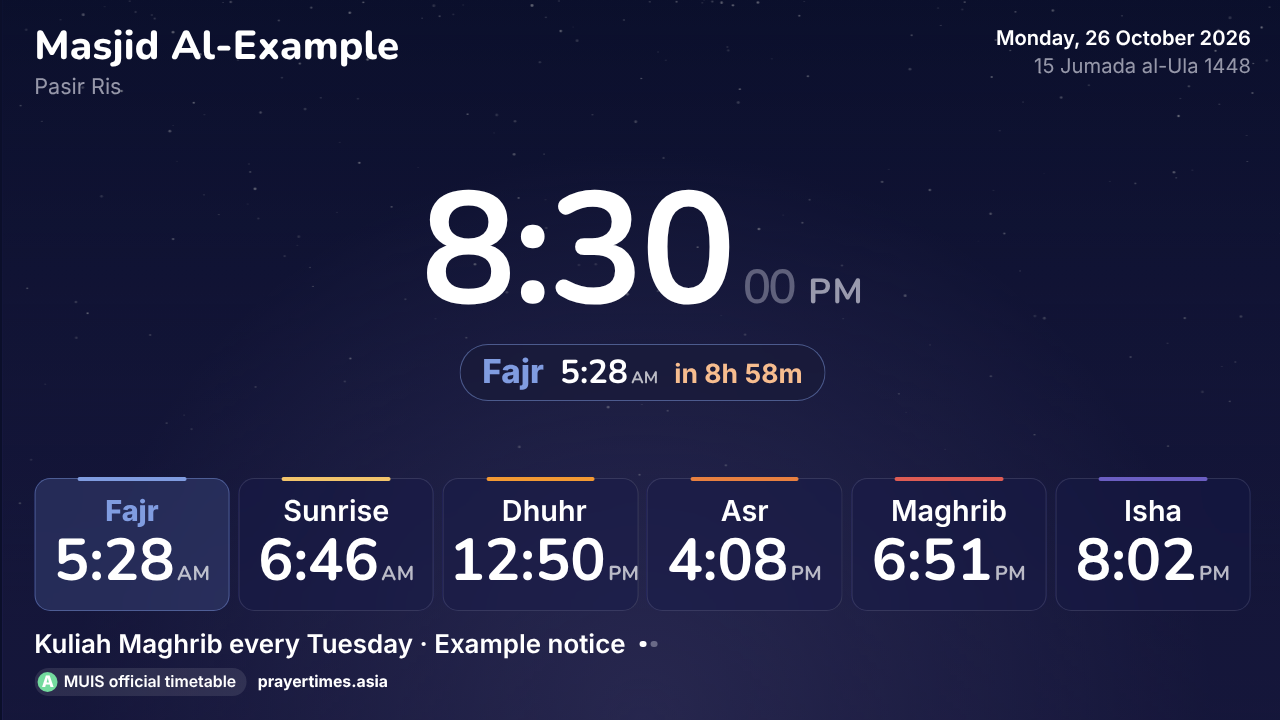
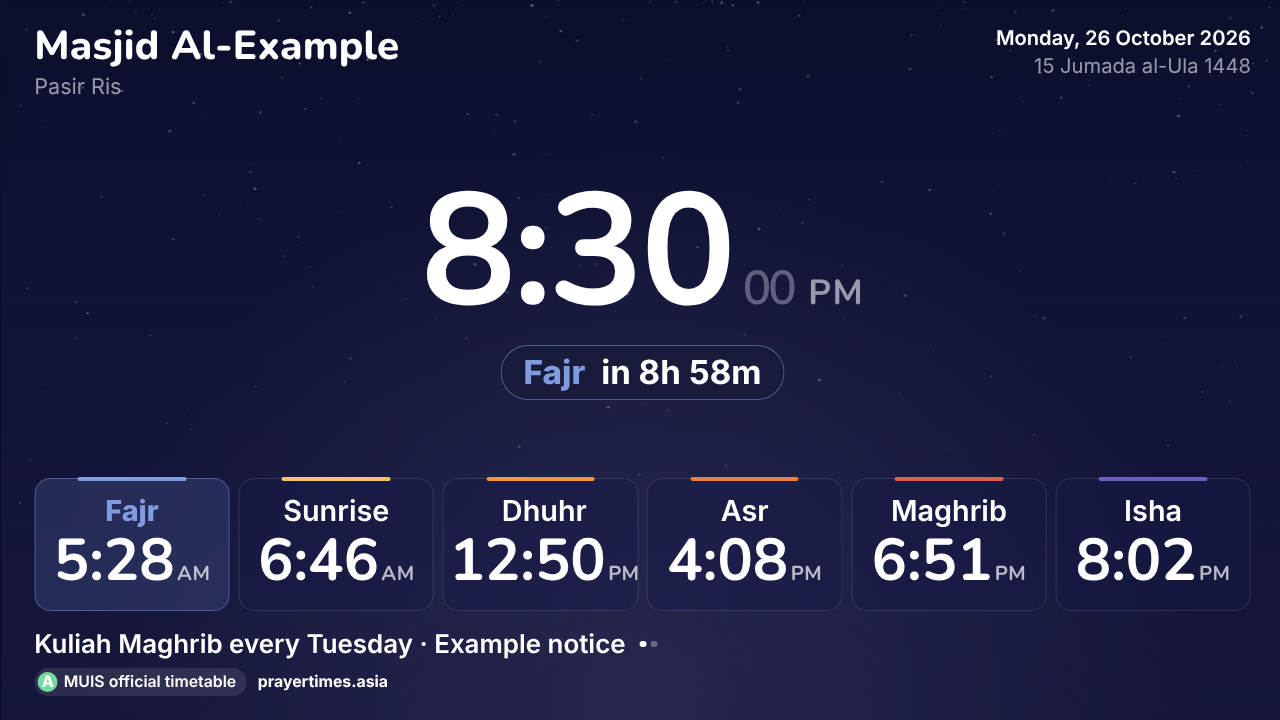
Masjid screen: next-prayer strip shows just the name and time left
The strip under the clock now reads "Asr in 41m". The prayer's time is
already on its card below, so repeating it was one number too many.

Claude-Session: https://claude.ai/code/session_01N3UT55kGUzTCzRML5iKXZQ

diff --git a/web/src/screen/Display.tsx b/web/src/screen/Display.tsx
@@ -148,15 +148,12 @@ function Hero({ phase, now, config: c, label }: { phase: Phase; now: number; con
   }
   if (phase.kind === 'prayer') return <section class="scr-hero" />
   const next = phase.next
-  const iq = next === 'sunrise' || !c.showIqamah ? undefined : phase.day.iqamah[next]
   const sec = String(Math.floor(now / 1000) % 60).padStart(2, '0')
   return (
     <section class="scr-hero">
       <p class="scr-big scr-clockbig">{clock.time}<span class="scr-sec">{sec}</span>{clock.suffix && <small>{clock.suffix}</small>}</p>
       <p class="scr-next" style={{ '--tint': `var(--t-${next})` }}>
         <span class="scr-next-name">{next === 'sunrise' ? w.ends(label('fajr')) : label(next)}</span>
-        <Time ms={phase.at} tz={tz} h24={c.h24} />
-        {iq != null && <span class="scr-next-iq">{next === 'dhuhr' && phase.day.friday && c.jumuah ? w.khutbah : w.iqamah} <Time ms={iq} tz={tz} h24={c.h24} /></span>}
         <span class="scr-in">{w.inTag(shortLeft(phase.at - now))}</span>
       </p>
     </section>

diff --git a/web/src/screen/screen.css b/web/src/screen/screen.css
@@ -351,11 +351,7 @@ textarea { resize: vertical; }
   font-size: calc(var(--u) * 4); -webkit-backdrop-filter: blur(22px); backdrop-filter: blur(22px);
 }
 .scr-next-name { font-weight: 800; color: var(--tint); font-variant-numeric: normal; }
-.scr-next > .scr-t { font-weight: 700; }
-.scr-next .scr-t small { font-size: 0.5em; }
-.scr-next-iq { color: var(--fg2); font-size: 0.8em; font-variant-numeric: normal; }
-.scr-next-iq .scr-t { color: var(--fg); font-weight: 700; }
-.scr-in { font-weight: 700; color: var(--accent); font-size: 0.8em; font-variant-numeric: normal; }
+.scr-in { font-weight: 700; color: var(--fg); font-variant-numeric: normal; }
 .scr-now { color: var(--fg); font-family: var(--font-display); font-weight: 700; }
 .scr-now small { font-size: 0.6em; margin-left: 0.15em; opacity: 0.7; }
 .scr-azan .scr-line { color: var(--gold); }
